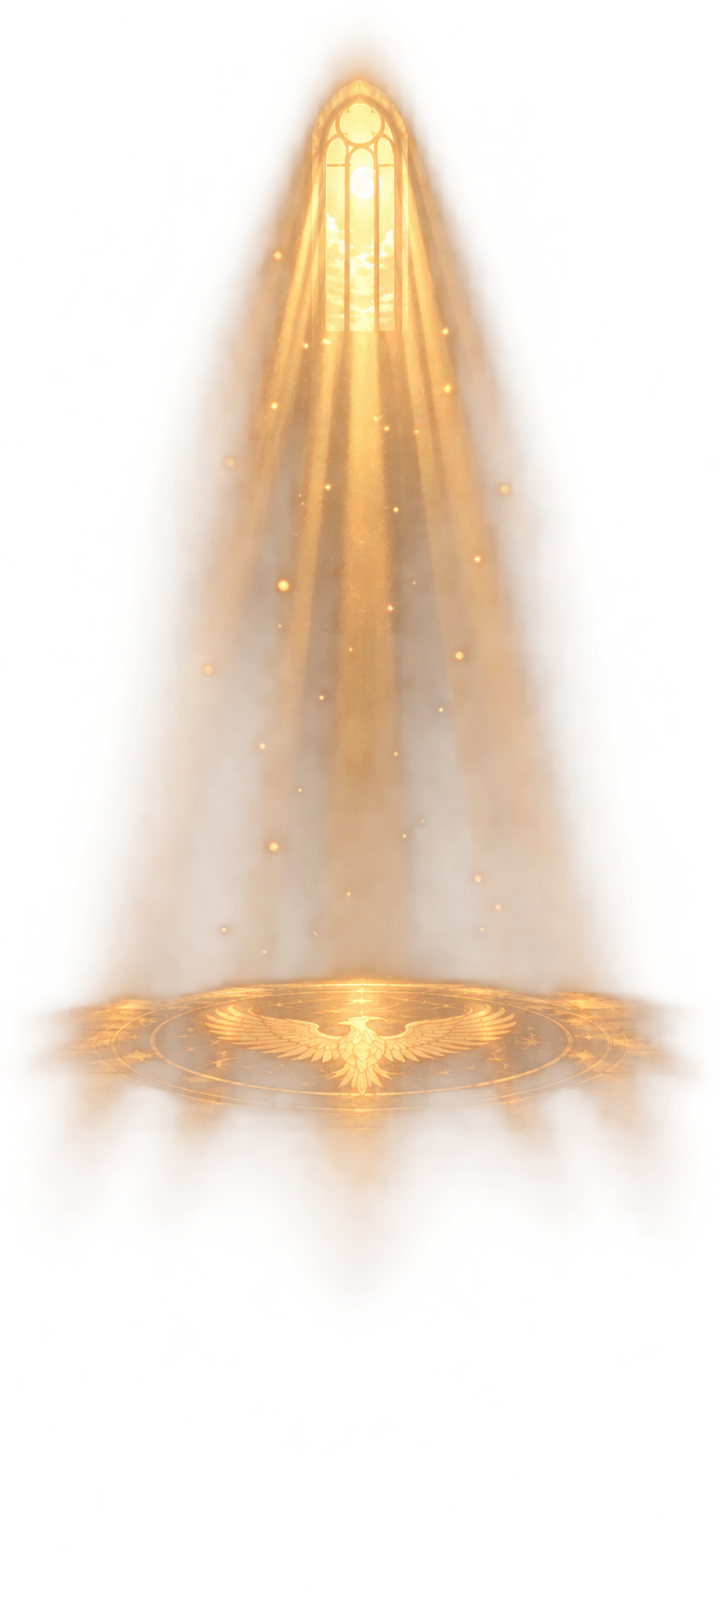
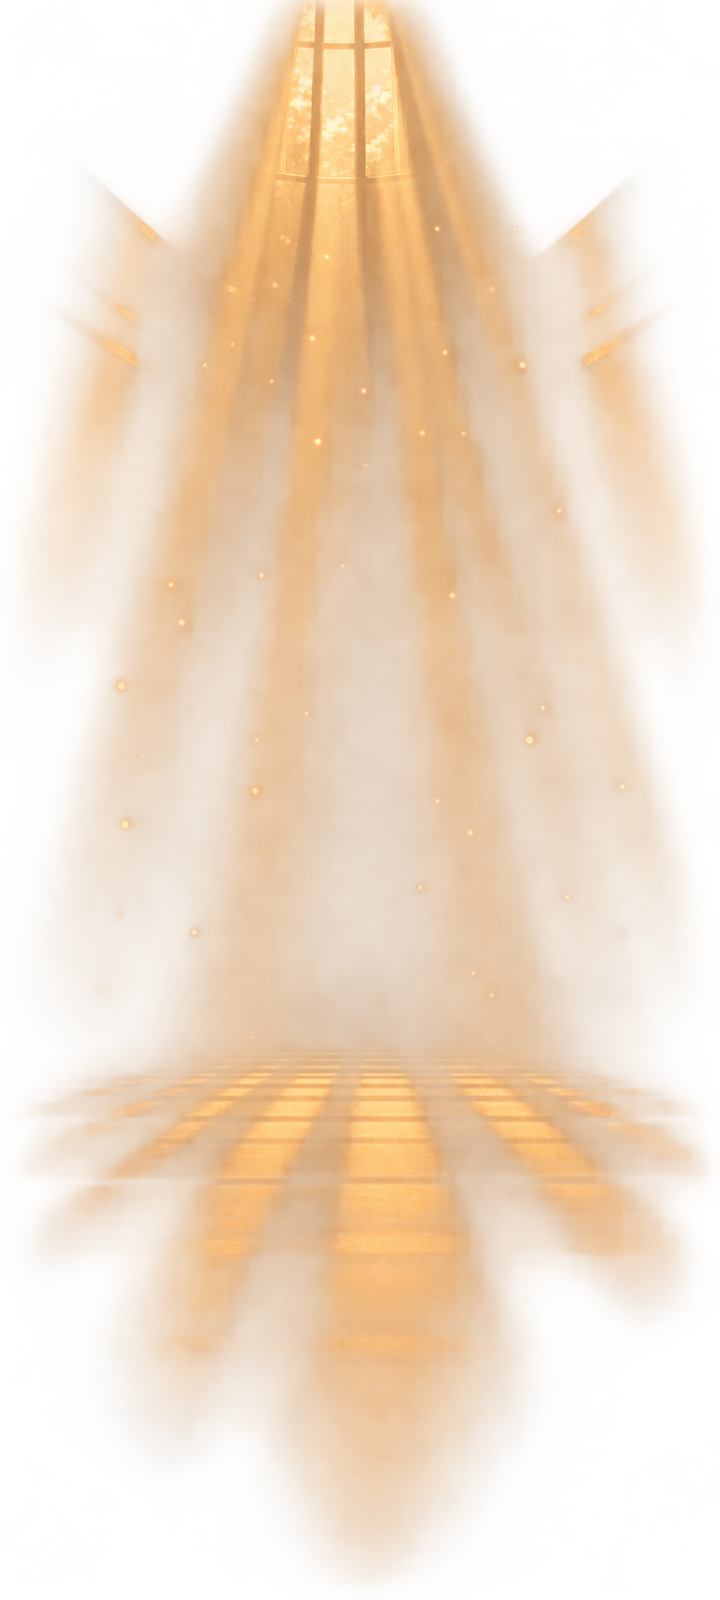
Align room art and overlays with character style

diff --git a/Documentation/CelestialDial/STYLE-PASS-2026-09-24.md b/Documentation/CelestialDial/STYLE-PASS-2026-09-24.md
@@ -1,0 +1,9 @@
+# Ascendant style pass — 2026-09-24
+
+## PR 1 — rooms and light overlays
+
+This art-only pass aligns the Atrium, Wing, and Chamber backgrounds and their transparent light overlays with the attached Scorpio and Capricorn character references: warm amber cinematic lighting, clean dark contours, simplified hand-painted cel shading, rich graphic shadows, restrained detail, and grounded proportions. Backgrounds remain dormant; golden-hour energy is confined to the uncrunched `-light` overlays.
+
+The fixed 360 × 800 placement rects were preserved: Atrium doors and shelf/furniture landings, Wing return doorway at `x=-130, top=325`, floor band at `top=436`, and Chamber return at `x=-140, top=384`, books at `top=300`, and floor band at `top=408`. No code, layout, labels, wording, slot sizes, or importer settings changed.
+
+The standing checklist for future raster art is: use the attached character references, preserve registered dimensions and transparency, keep backgrounds dormant, put golden-hour energy only in `-light` overlays, and add no text or labels.
